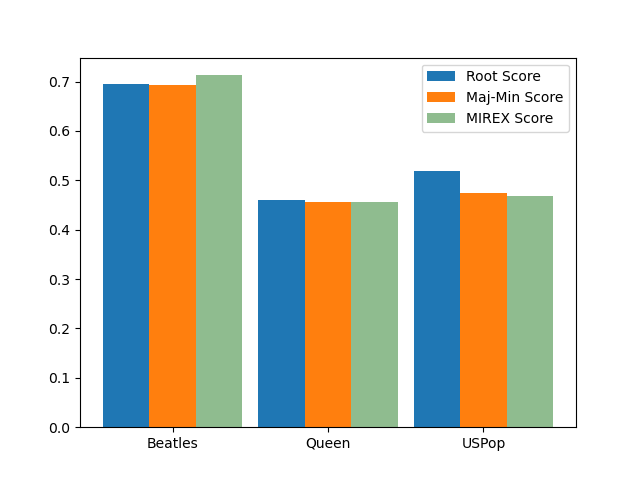
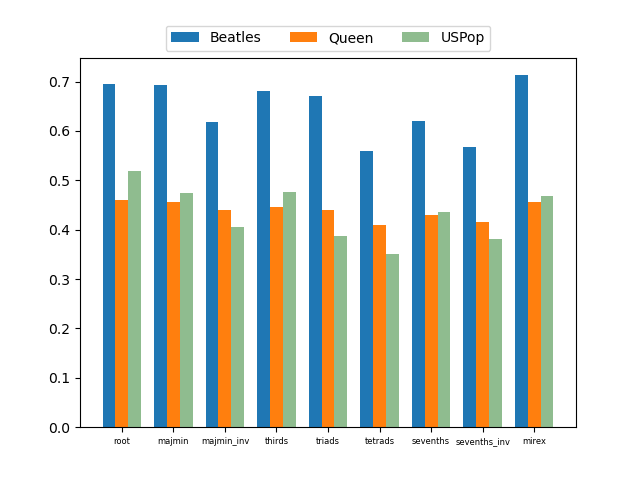
add more eval metrics, modify graph

diff --git a/plot_data.py b/plot_data.py
@@ -2,47 +2,44 @@ import matplotlib.pyplot as plt
 import numpy as np
 import os, glob
 
-N = 3
+# number of scores
+N = 9
 
-root_score = []
-majmin_score = []
-mirex_score = []
+score_map = {'root': [], 'majmin': [], 'majmin_inv': [], 'thirds': [], 'triads': [], 
+                 'tetrads': [], 'sevenths': [], 'sevenths_inv': [], 'mirex': []}
 
 artists = ["Beatles", "Queen", "USPop"]
 for artist in artists:
     path = "./output_data/" + artist
-    curr_root = 0
-    curr_majmin = 0
-    curr_mirex = 0
+    curr_vals = {'root': 0, 'majmin': 0, 'majmin_inv': 0, 'thirds': 0, 'triads': 0, 
+                 'tetrads': 0, 'sevenths': 0, 'sevenths_inv': 0, 'mirex': 0}
+
     num_entries = 0
     for filename in os.listdir(path):
         if filename.endswith(".txt"):
             with open(os.path.join(path, filename), 'r') as f:
                 for line in f:
                     key, val = line.split(":")[0], float(line.split(":")[-1])
-                    if key == 'root':
-                        curr_root += val
-                    elif key == 'majmin':
-                        curr_majmin += val
-                    elif key == 'mirex':
-                        curr_mirex += val
+                    if key in curr_vals:
+                        curr_vals[key] += val
             num_entries += 1
-    root_score.append(curr_root / num_entries)
-    majmin_score.append(curr_majmin / num_entries)
-    mirex_score.append(curr_mirex / num_entries)
+    for x in curr_vals:
+        score_map[x].append(curr_vals[x] / num_entries)
 
-print(root_score)
-print(majmin_score)
-print(mirex_score)
+print(score_map)
 
+indices = np.arange(0, 2 * N, step=2)
+width = 0.5
+colors = ['tab:blue', 'tab:orange', 'darkseagreen']
 
-indices = np.arange(N)
-width = 0.3
+tick = 0
+for i in range(len(artists)):
+    vals = []
+    for score in score_map:
+        vals.append(score_map[score][i])
+    plt.bar(indices + tick * width, vals, width, label=artists[i], color=colors[i])
+    tick += 1
 
-plt.bar(indices, root_score, width, label='Root Score', color='tab:blue')
-plt.bar(indices + width, majmin_score, width, label='Maj-Min Score', color='tab:orange')
-plt.bar(indices + 2 * width, mirex_score, width, label='MIREX Score', color='darkseagreen')
-
-plt.xticks(indices + 3 * width / 3, artists)
-plt.legend(loc="best")
+plt.xticks(indices + 9 * width / 9, score_map.keys(), fontsize=6)
+plt.legend(loc="lower center", ncol = 3, bbox_to_anchor=(0.5, 1))
 plt.savefig("score_plot.png")
